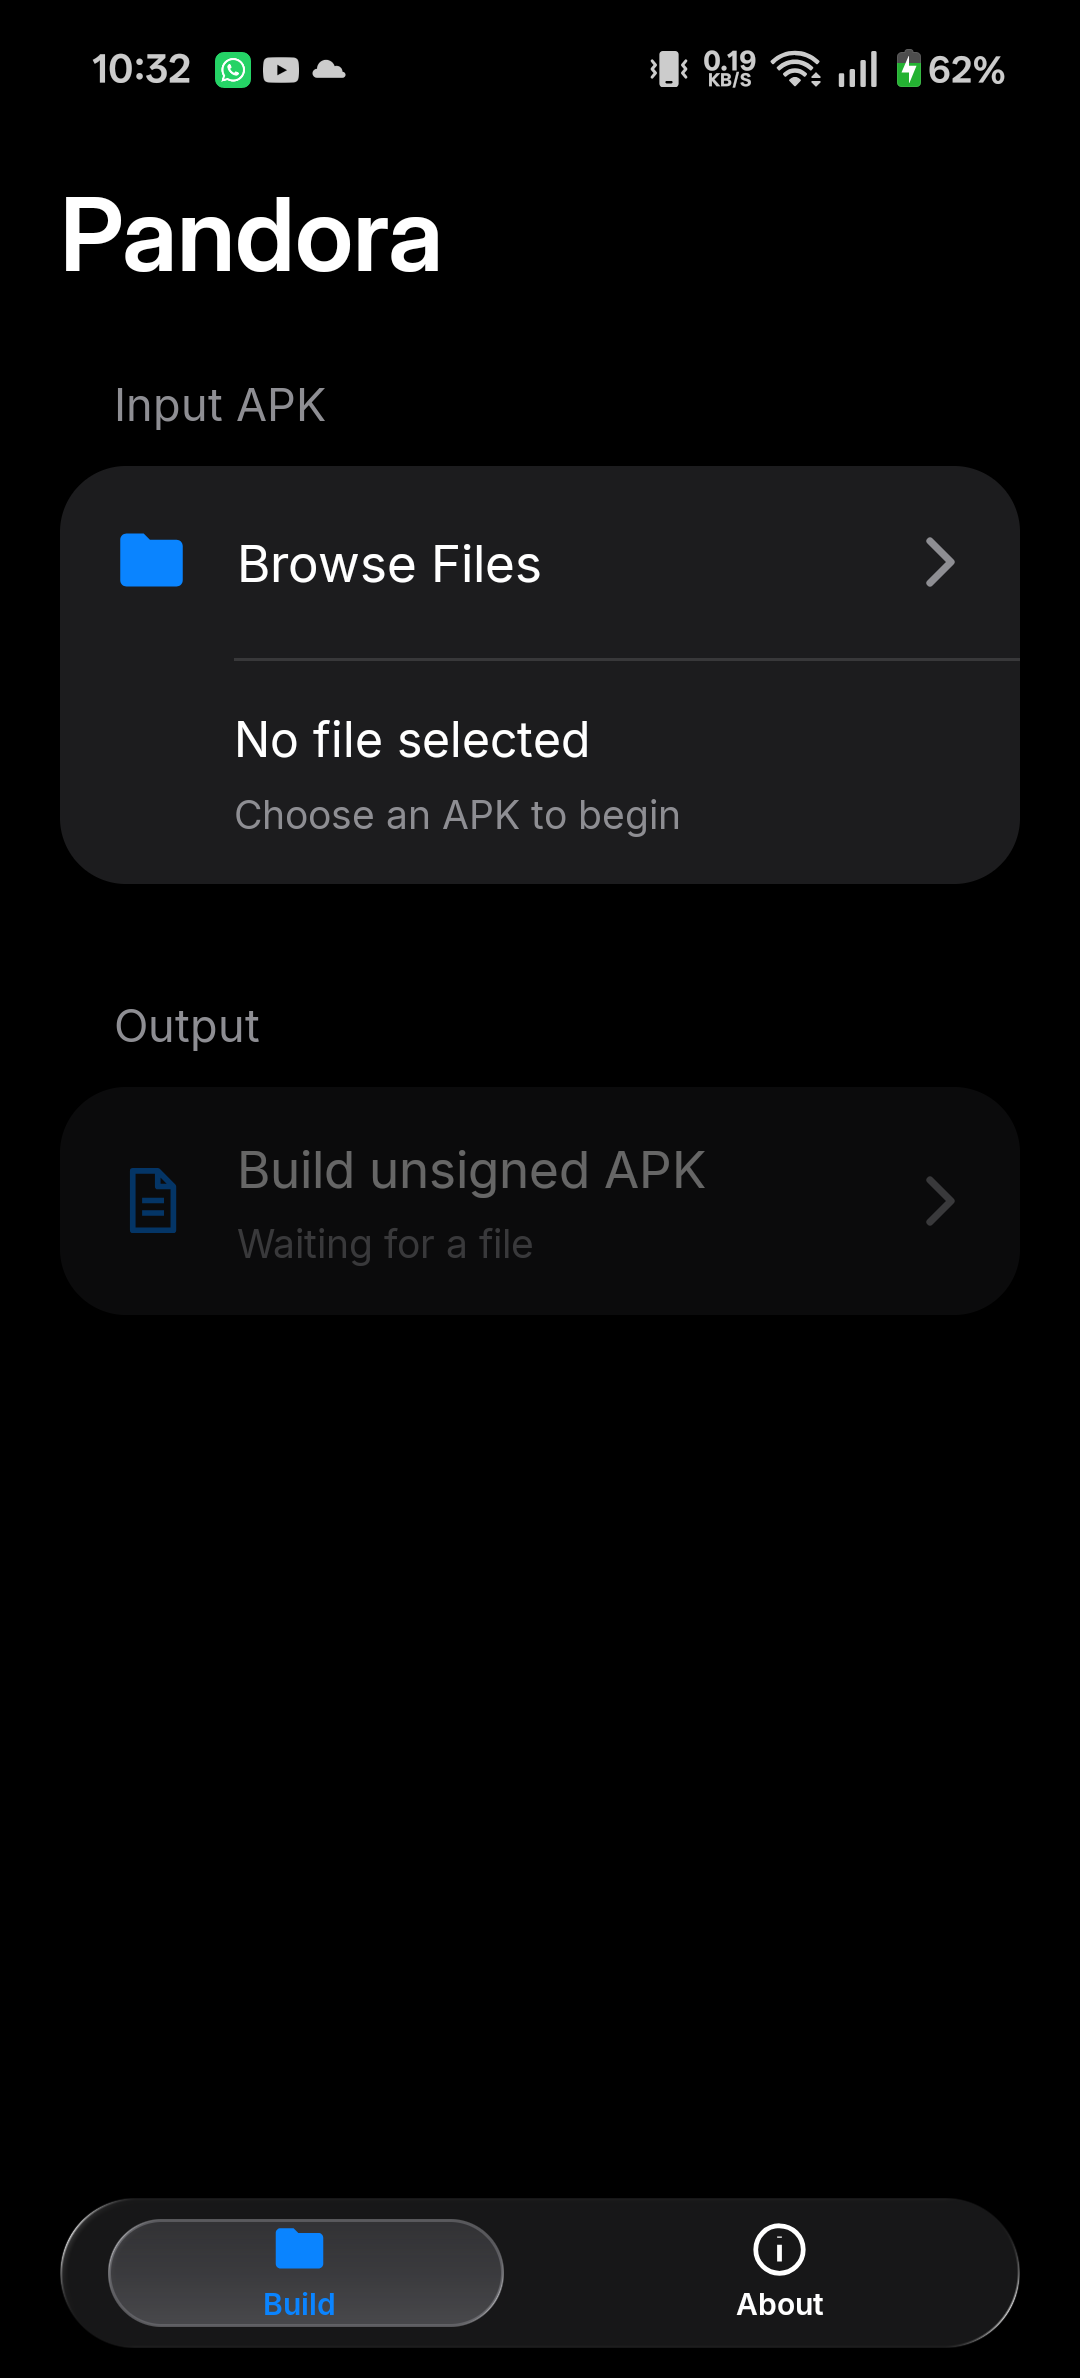
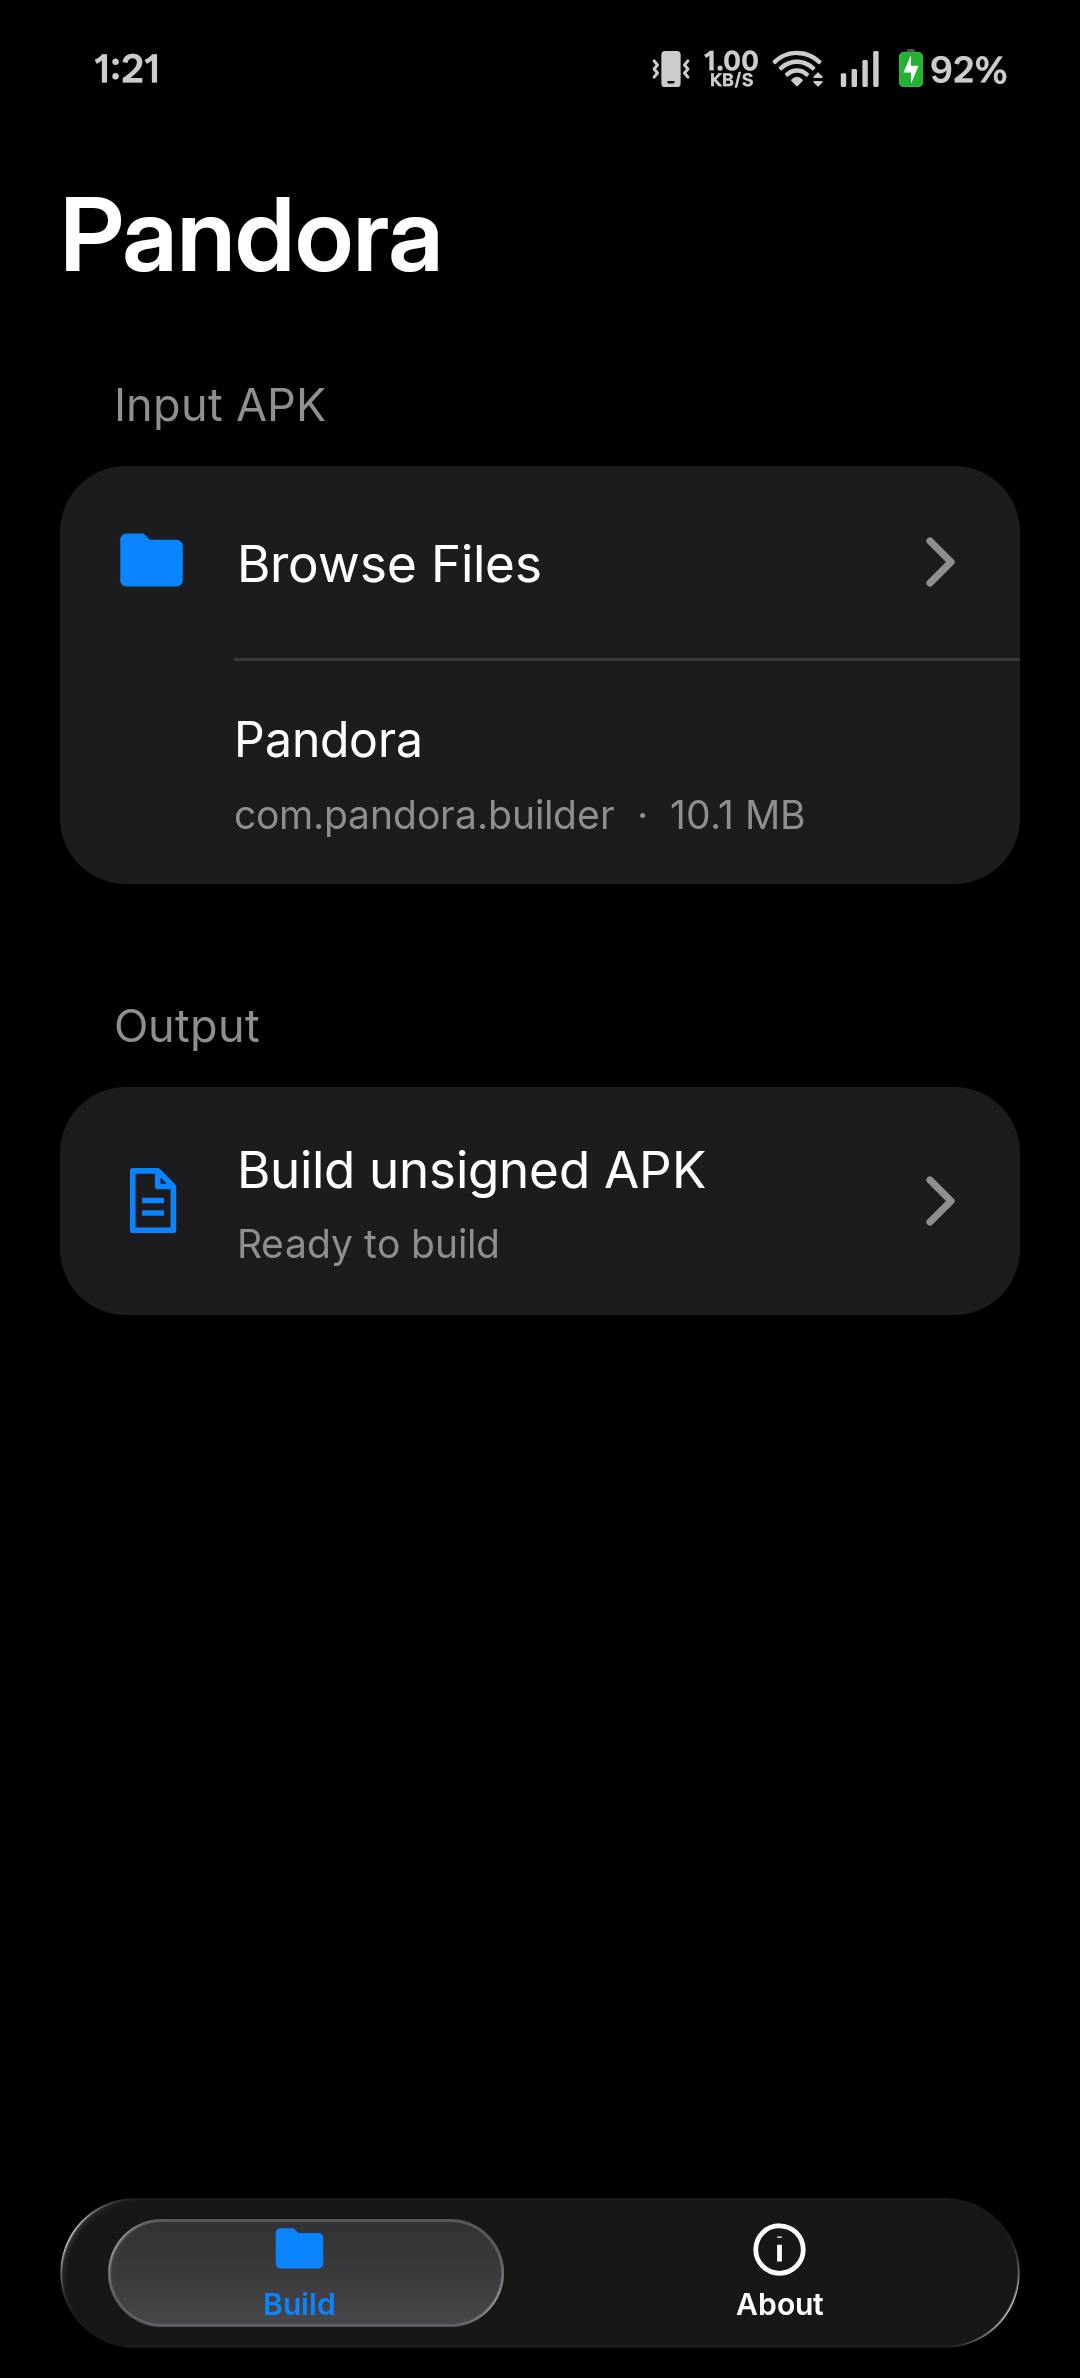
Refresh README screenshots for v1.1.0

diff --git a/README.md b/README.md
@@ -31,11 +31,18 @@ Latest returns to new output.
 
 ## Screenshots
 
-| Build | File selection | About |
-| --- | --- | --- |
-| <img src="docs/screenshots/build.png" width="240" alt="Pandora Build tab"> | <img src="docs/screenshots/files.png" width="240" alt="Pandora file sheet"> | <img src="docs/screenshots/about.png" width="240" alt="Pandora About tab"> |
+| Build | Installed apps |
+| --- | --- |
+| <img src="docs/screenshots/build.png" width="280" alt="Pandora v1.1.0 Build tab with an installed APK selected"> | <img src="docs/screenshots/installed-apps.png" width="280" alt="Installed-app picker with package search and user/all-app filters"> |
 
-These screenshots were captured from the app on an Android 16 arm64 device.
+| Build log | About |
+| --- | --- |
+| <img src="docs/screenshots/build-log.png" width="280" alt="Completed APK patching log with operation timestamps and unsigned APK export"> | <img src="docs/screenshots/about.png" width="280" alt="Pandora v1.1.0 About tab with developer and source links"> |
+
+Captured from the signed v1.1.0 release on an Android 16 arm64 device. The
+installed-app list is filtered to Pandora, and the log shows a real completed
+patch of that APK. Copy log copies the session output; Latest resumes following
+new entries after scrolling.
 
 ## Project layout
 
